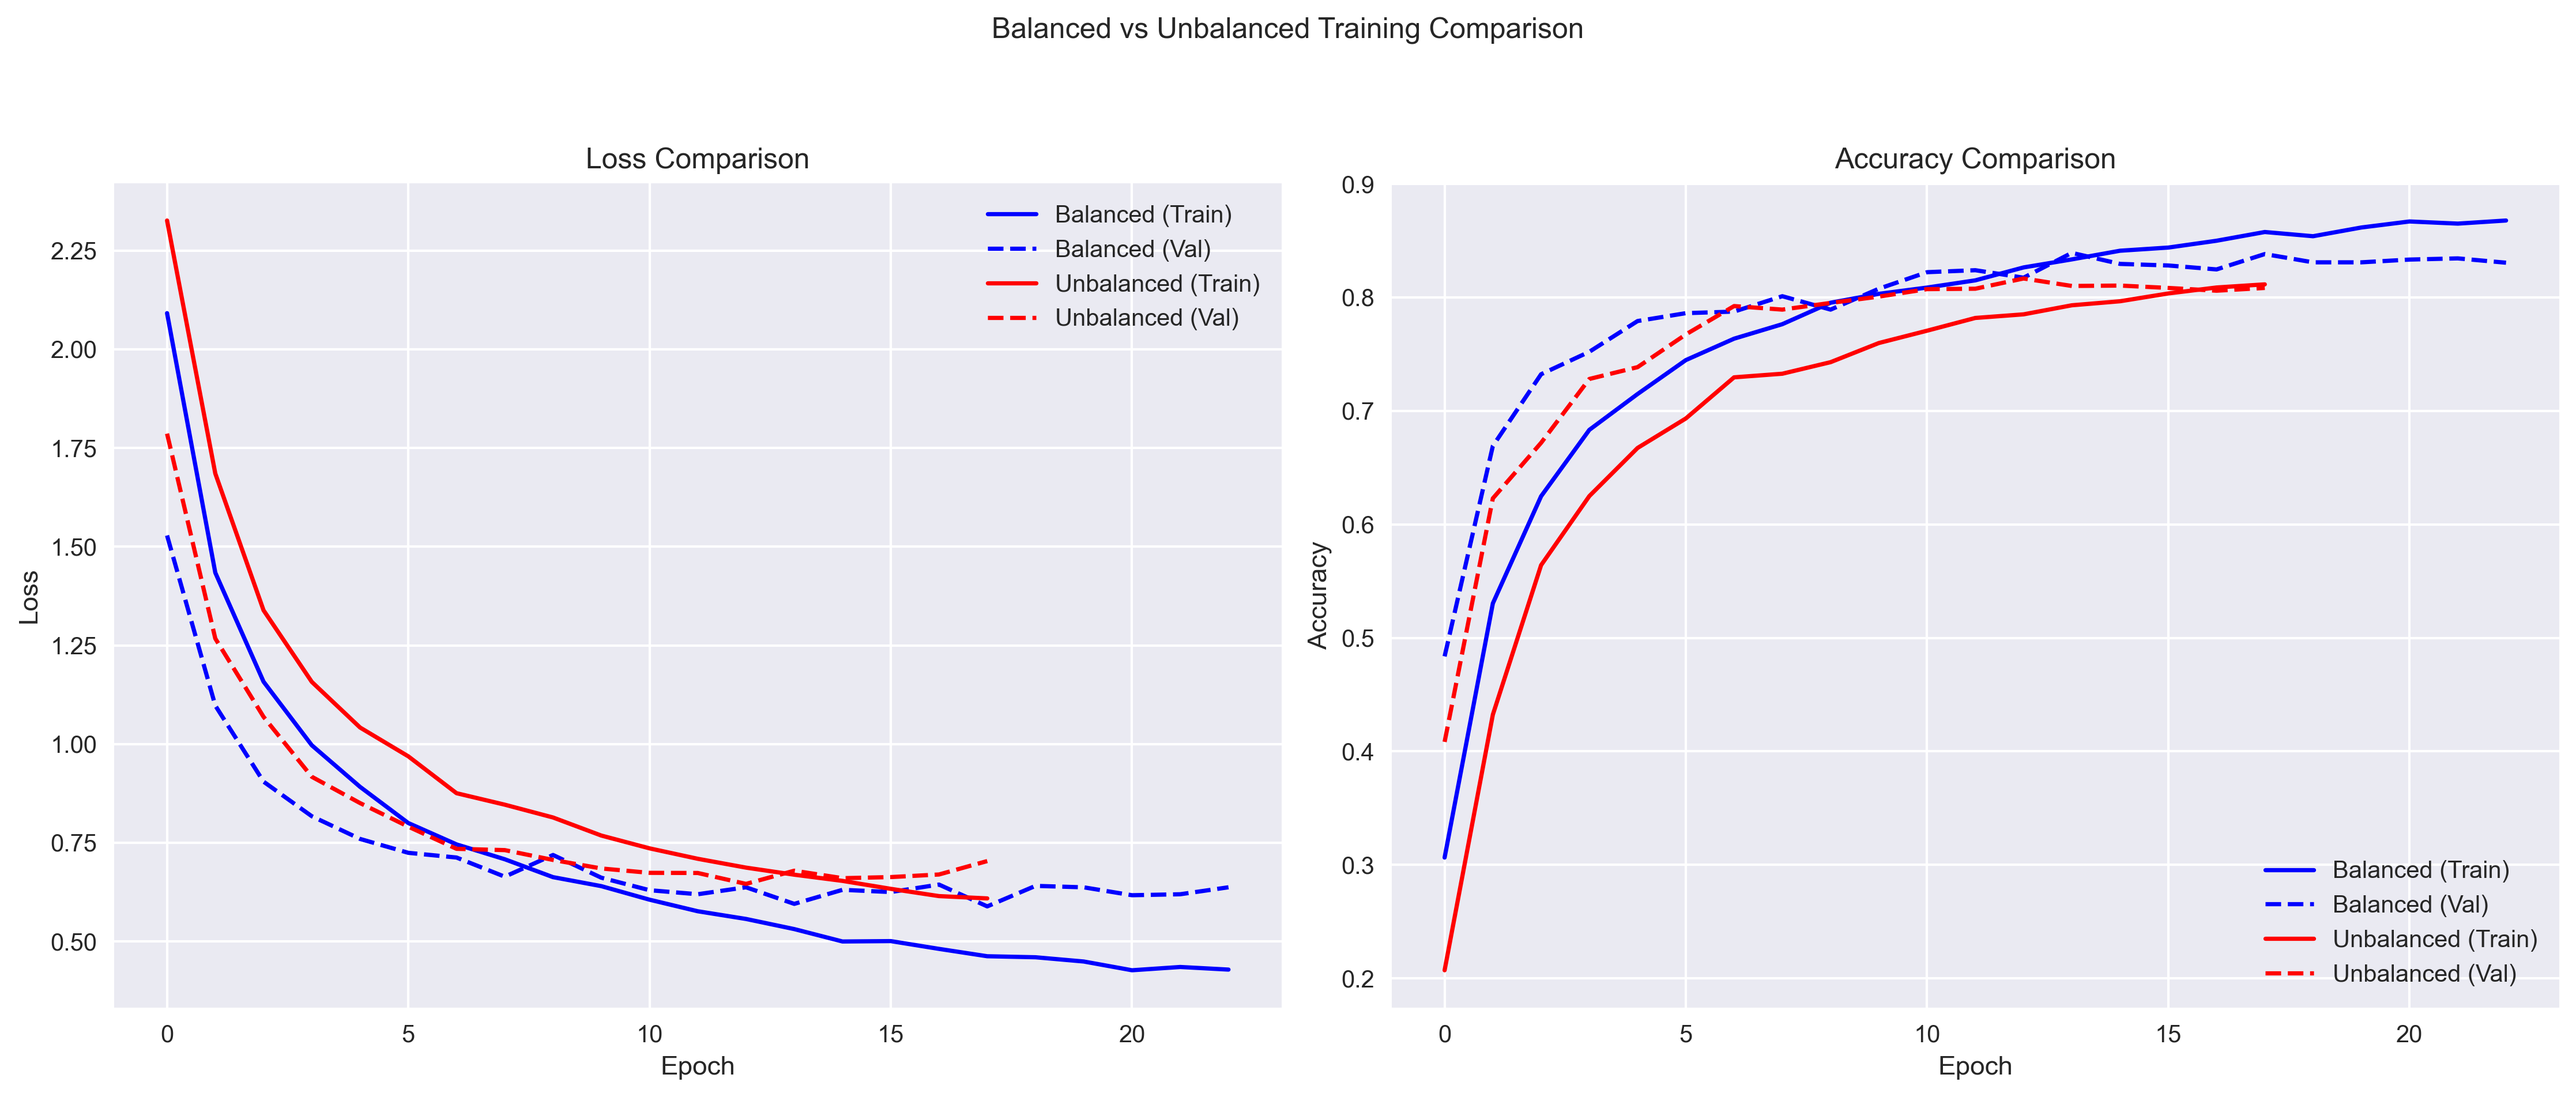
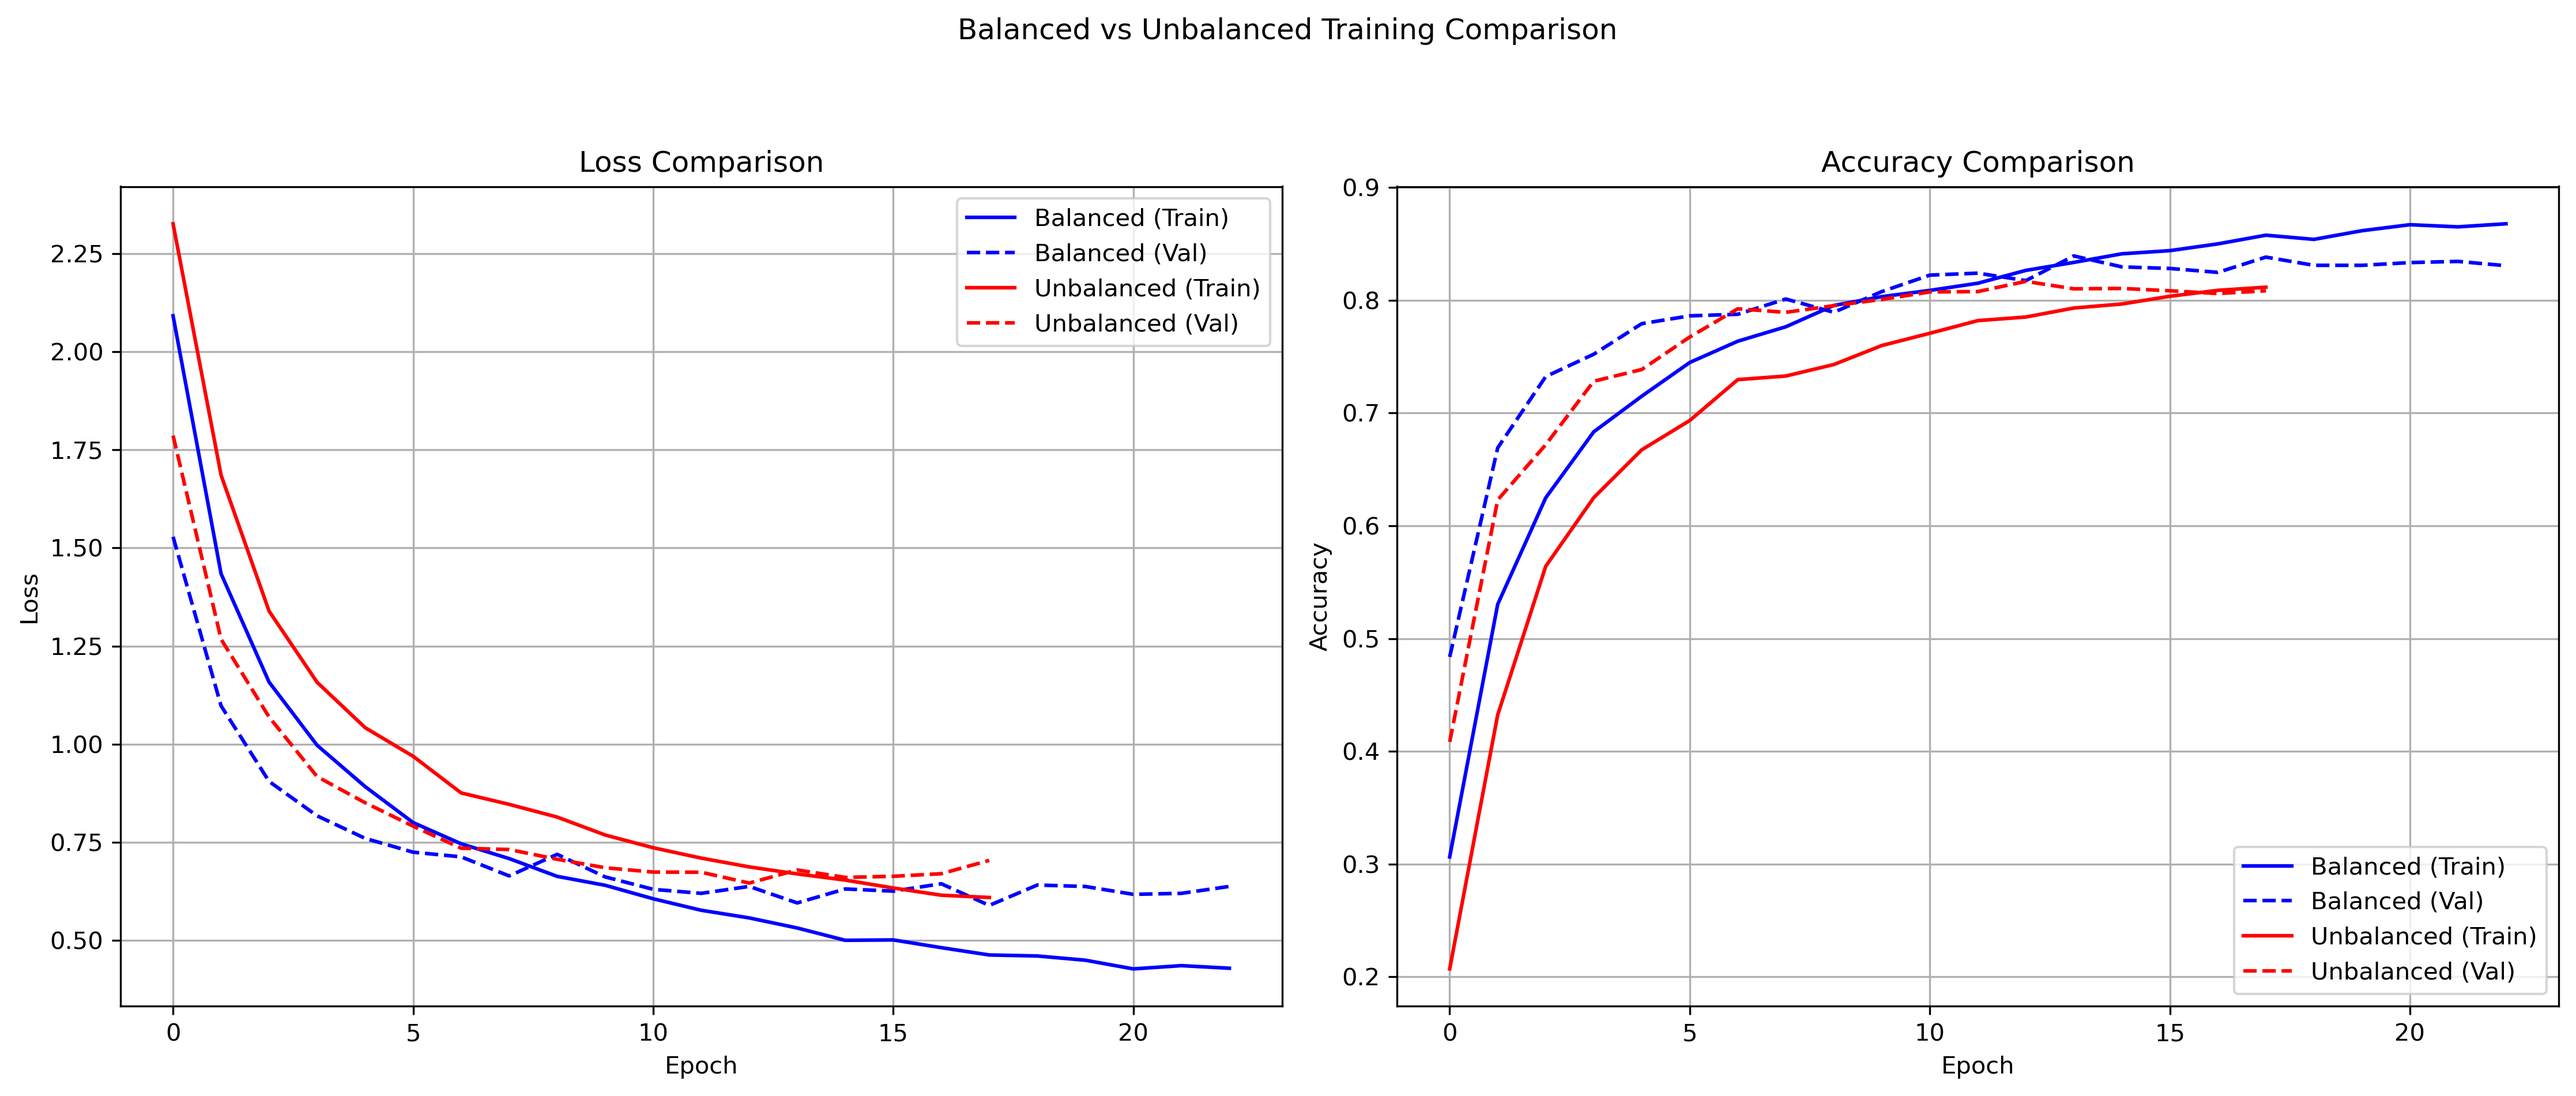
updated training comparison

diff --git a/mnist_addition/utils/compare_dataset.py b/mnist_addition/utils/compare_dataset.py
@@ -65,7 +65,7 @@ def evaluate_model(model, test_loader, device):
 
 def plot_comparison(balanced_metrics, unbalanced_metrics, save_path):
     """Plot training history comparison"""
-    plt.style.use('seaborn')
+    #plt.style.use('seaborn')
     fig, (ax1, ax2) = plt.subplots(1, 2, figsize=(15, 6))
     
     # Plot training and validation loss
